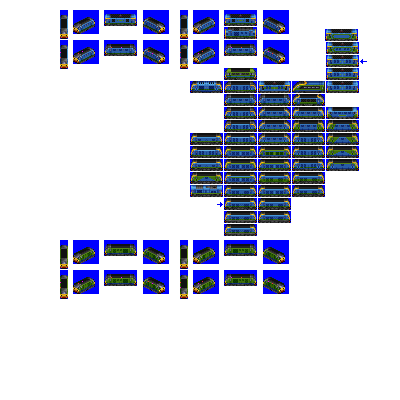
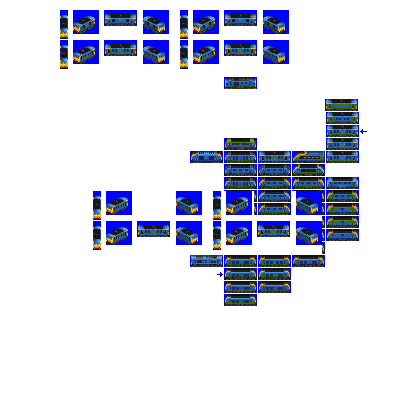
Change: sprites complete for Triton

Changed region(s): [[0.15, 0.03, 0.9, 0.78], [0.15, 0.03, 0.24, 0.18], [0.27, 0.03, 0.42, 0.15]]

diff --git a/src/vehicles/triton.py b/src/vehicles/triton.py
@@ -14,7 +14,7 @@ def main(roster_id):
                             gen=6,
                             pantograph_type='z-shaped-double',
                             intro_date_offset=7,  # introduce later than gen epoch by design
-                            sprites_complete=False)
+                            sprites_complete=True)
 
     consist.add_unit(type=ElectricEngineUnit,
                      weight=128,
